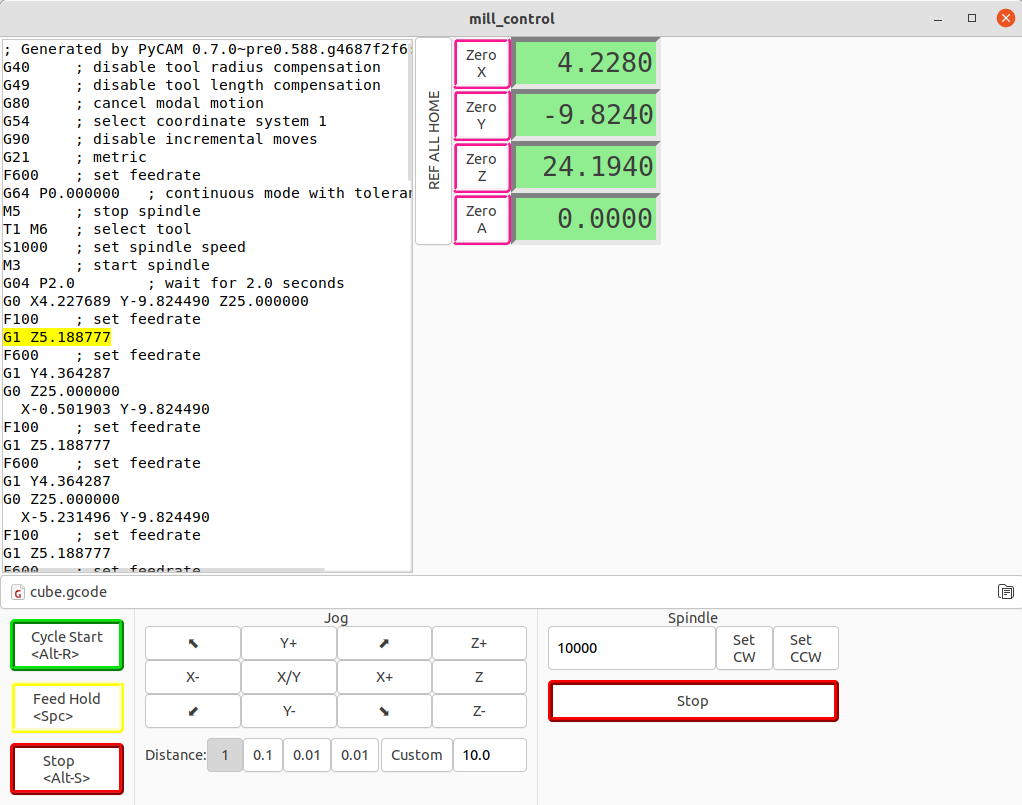
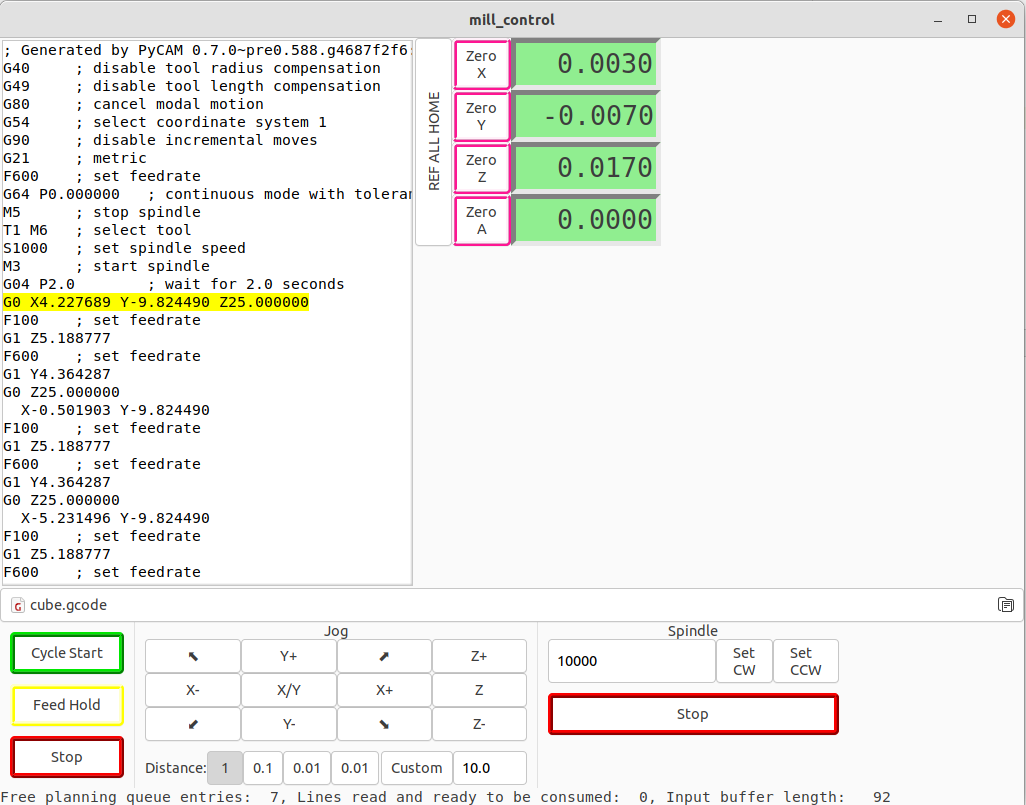
Updated screenshot and readme

diff --git a/README.md b/README.md
@@ -1,6 +1,9 @@
 # mill_control - a simple tool to control a TinyG cnc controller
 
-This creates a single binary that is able to directly control a TinyG board. You can manually jog or send a gcode file. There is support for a WHB04B remote.
+This creates a single binary that is able to directly control a TinyG board.
+* You can manually jog or send a gcode file. Loading a Gcode file will run it immediately.
+* Feed hold works, cycle start continues the program.
+* There is support for a WHB04B remote.
 
 ![screenshot](mill_control.png)
 
